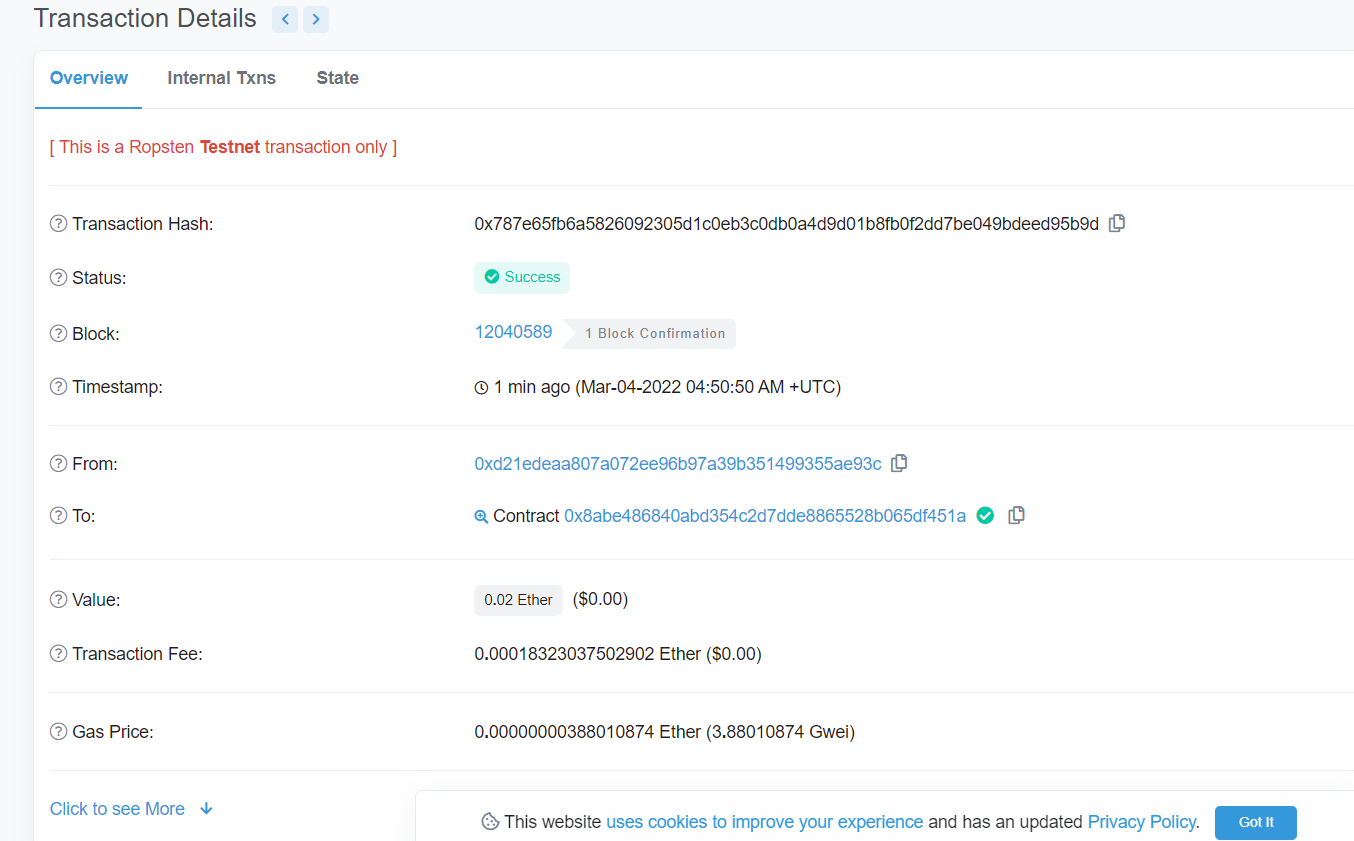
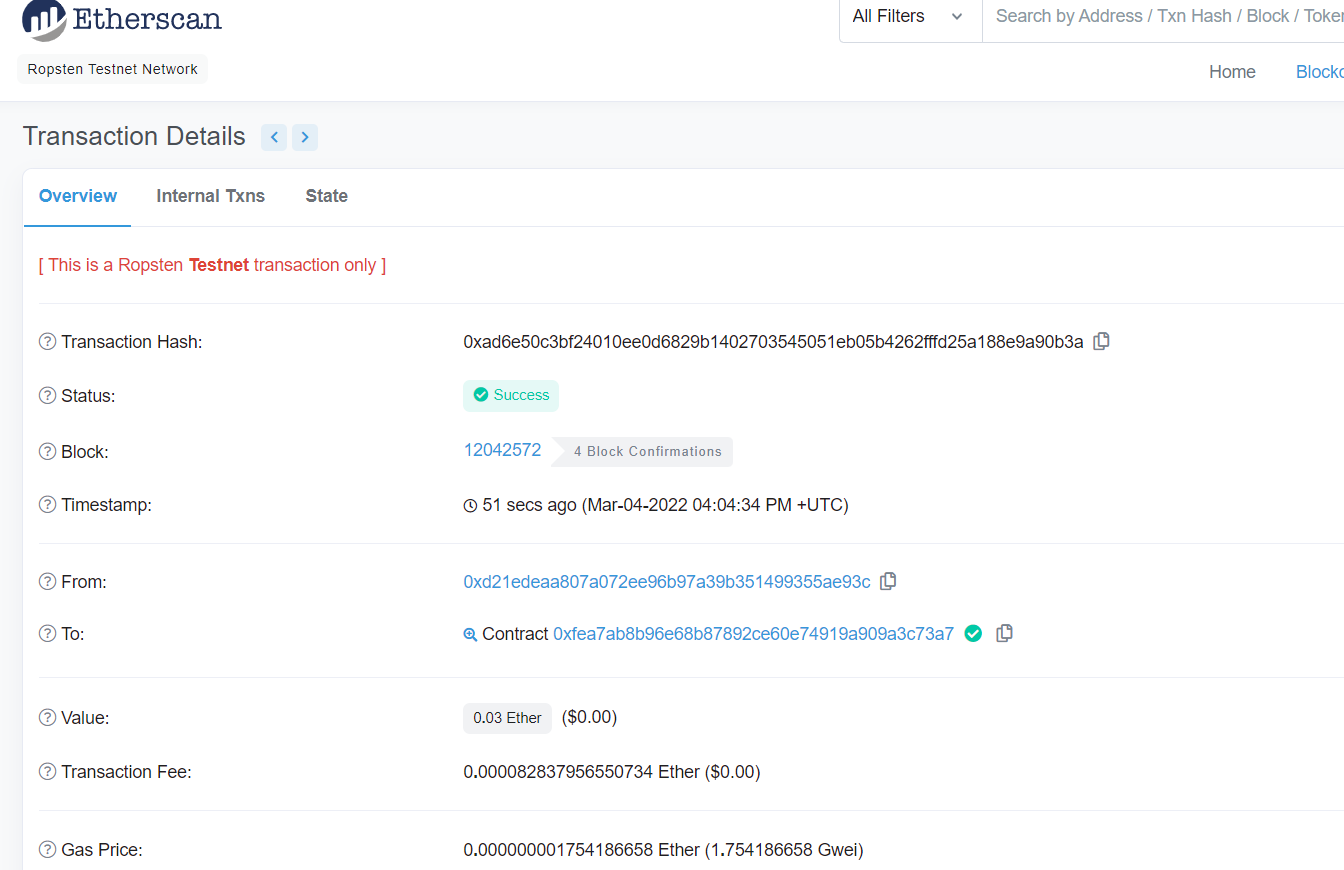
fix withdraw over gas limit

diff --git a/W2/banking/scripts/Bank.js b/W2/banking/scripts/Bank.js
@@ -8,17 +8,18 @@ async function main() {
     
     //console.log("owner:", owner);
     
-    const bank = await ethers.getContractAt("Bank","0x2970d5D97AfE69Ef727Bb200b24edeA26deCBb25",owner);
+    const bank = await ethers.getContractAt("Bank","0xfeA7AB8b96E68b87892cE60E74919a909A3c73a7",owner);
 
     let balance = await bank.getBalance();
     console.log(owner.address +" contract balance is:" + balance);
 
-    // // withdraw eth
-    // const transaction = await bank.withdrawAll();
-    // await transaction.wait();
+    // withdraw eth
+    const transaction = await bank.withdraw();
+    await transaction.wait();
+    console.log(owner.address +" withdraw all ETH!");
 
-    // let newbalance = await bank.getBalance();
-    // console.log(owner.address +" contract new balance is:" + newbalance);
+    let newbalance = await bank.getBalance();
+    console.log(owner.address +" contract new balance is:" + newbalance);
 
 }
 

diff --git a/W2/banking/hardhat.config.js b/W2/banking/hardhat.config.js
@@ -24,11 +24,15 @@ module.exports = {
   solidity: "0.8.4",
   networks:{
     hardhat:{
-      chainId:1337
+      chainId:1337,
+      gas: 2100000,
+      gasPrice: 8000000000
     },
     ropsten: {
       url: "https://ropsten.infura.io/v3/890a9bd025d54a7da8d7ba259d5d5df9",
-      accounts: [`0x${privateKey}`]
+      accounts: [`0x${privateKey}`],
+      gas: 2100000,
+      gasPrice: 8000000000
     }
   },
   etherscan: {
